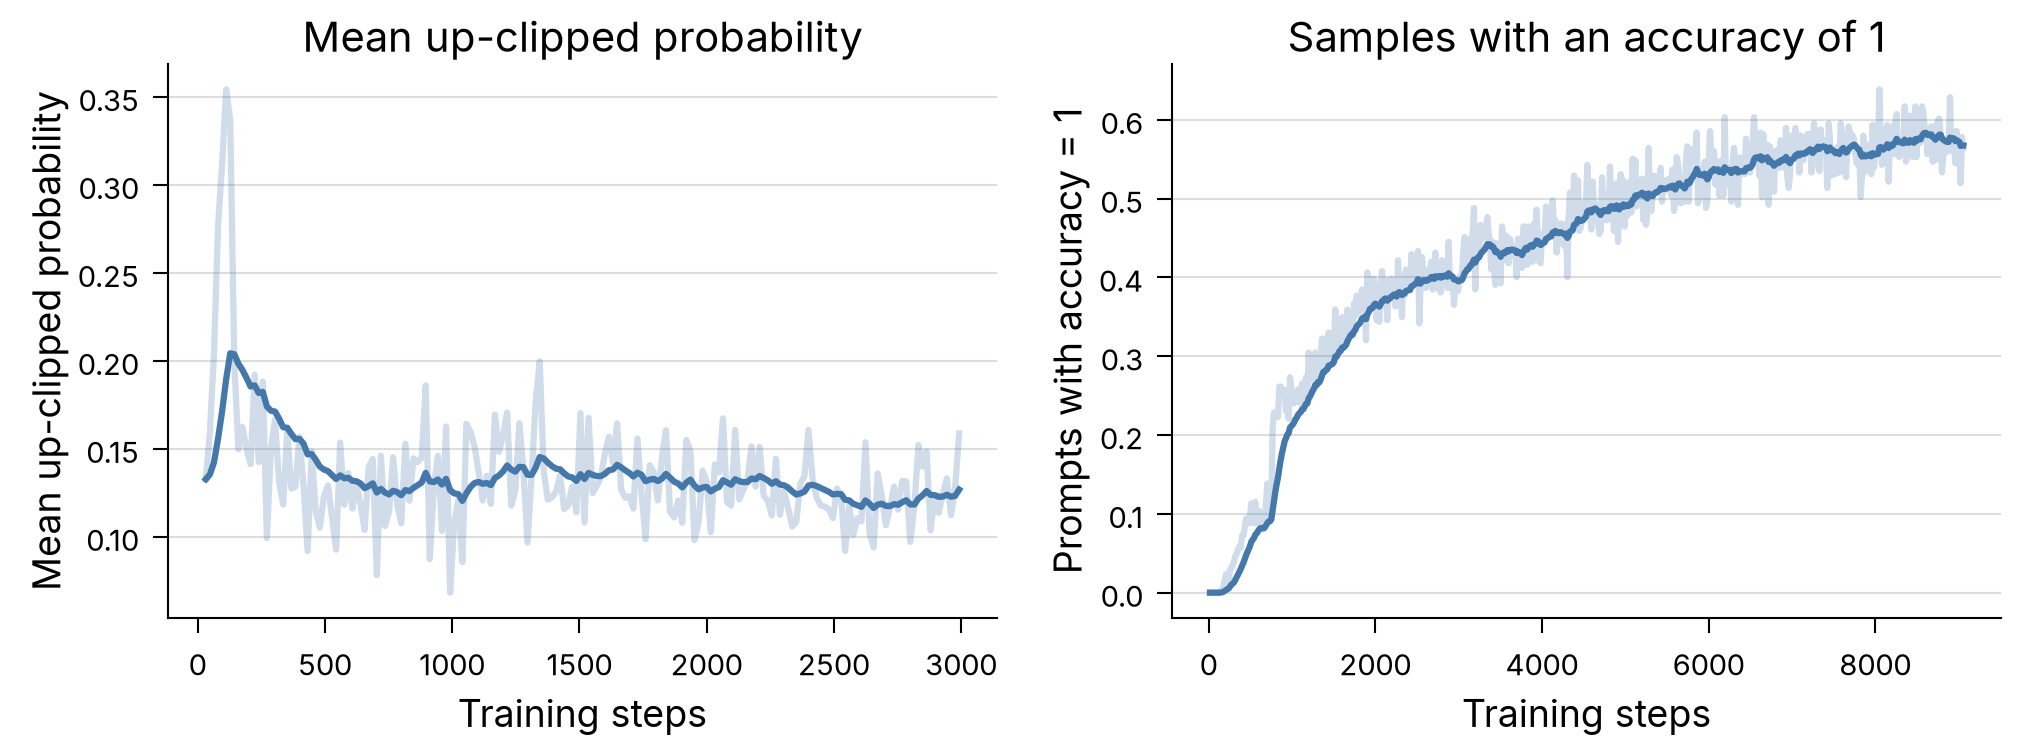
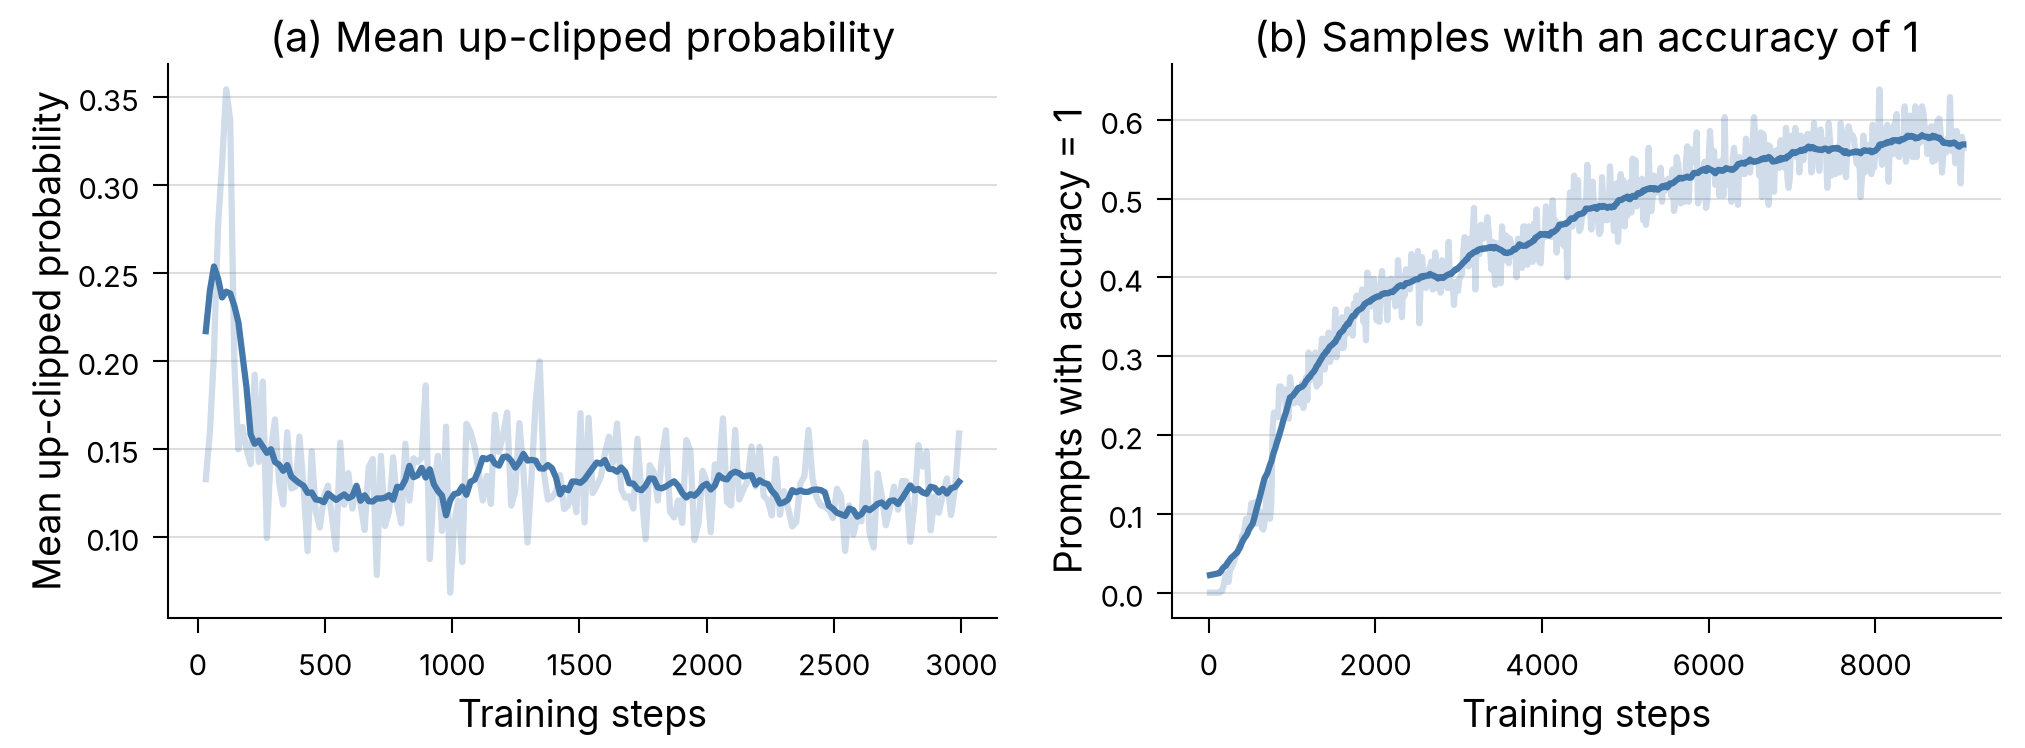
academic-figure: centered moving average smoothing, (a)/(b) panel titles
- Noisy per-step training curves: raw curve faint, centered moving average
  (window 5% of the steps) on top, instead of EMA
- DAPO examples: panel titles prefixed with (a), (b), ...

diff --git a/examples/academic-figure.py b/examples/academic-figure.py
@@ -34,26 +34,23 @@ def shared_legend(fig, ax):
                frameon=False, borderaxespad=0, fontsize=8)
 
 
-def ema(values, weight=0.9):
-    out, last = [], values[0]
-    for v in values:
-        last = weight * last + (1 - weight) * v
-        out.append(last)
-    return out
+def moving_average(values):
+    half = max(1, len(values) // 40)
+    return [sum(w) / len(w) for w in (values[max(0, i - half):i + half + 1] for i in range(len(values)))]
 
 
 def plot_curve(ax, s, color, label=None, smooth=False):
     if smooth:
         ax.plot(s["step"], s["value"], color=color, alpha=0.25)
-        ax.plot(s["step"], ema(s["value"]), color=color, label=label)
+        ax.plot(s["step"], moving_average(s["value"]), color=color, label=label)
     else:
         ax.plot(s["step"], s["value"], color=color, label=label)
 
 
 def panels(rows, titles, sharex=False):
     fig, axes = plt.subplots(rows, 2, figsize=(DOUBLE, 2 * rows), sharex=sharex)
-    for ax, title in zip(axes.flat, titles):
-        ax.set_title(title)
+    for ax, letter, title in zip(axes.flat, "abcd", titles):
+        ax.set_title(f"({letter}) {title}")
     return fig, list(axes.flat)
 
 

diff --git a/skills/academic-figure/SKILL.md b/skills/academic-figure/SKILL.md
@@ -72,7 +72,7 @@ It sets fonts (Inter for all text and math, STIX Sans for math symbols Inter lac
 - No figure title. Panel identifiers (dataset, setting) go in the axes title, never as text inside the axes.
 - Subsampled markers: at x major tick positions (mask by x value, not index step).
 - Don't set axis limits exactly at the first or last data point (e.g. `set_xlim(0, 1)` for x in [0, 1]); markers there get cut in half. Keep the default margin.
-- Noisy per-step training curves (≥ ~100 points: loss, reward, entropy, length): draw the raw curve in the same color at `alpha` 0.25 with no label, then an EMA (weight 0.9) on top with the label, and say so in the caption ("EMA-smoothed, weight 0.9; faint lines show raw values"). EMA: `last = 0.9 * last + 0.1 * v` over the values, starting from the first value. Don't smooth evaluation curves with few points, or curves whose best step or peak value is marked.
+- Noisy per-step training curves (≥ ~100 points: loss, reward, entropy, length): draw the raw curve in the same color at `alpha` 0.25 with no label, then a centered moving average on top with the label, and say so in the caption ("smoothed with a moving average over 5% of the steps; faint lines show raw values"). Window: `half = max(1, len(values) // 40)` points on each side, shrinking at the ends. Don't smooth evaluation curves with few points, or curves whose best step or peak value is marked.
 - Reference lines (max/min, regression, threshold): color of related data, `--`, `alpha` 0.5, behind data, `linewidth=1` (thinner than the 1.5 data lines).
 - Category axes (bar charts, text tick labels): no tick marks, `ax.tick_params(axis="x", length=0)` (or `axis="y"` for horizontal bars); the label under each bar already marks it. With shared axes, apply it to every panel, including those whose labels are hidden.
 - Value labels (numbers on bars or points, e.g. `bar_label`): `fontsize=6`; the proposed method's ("Ours") labels bold.
